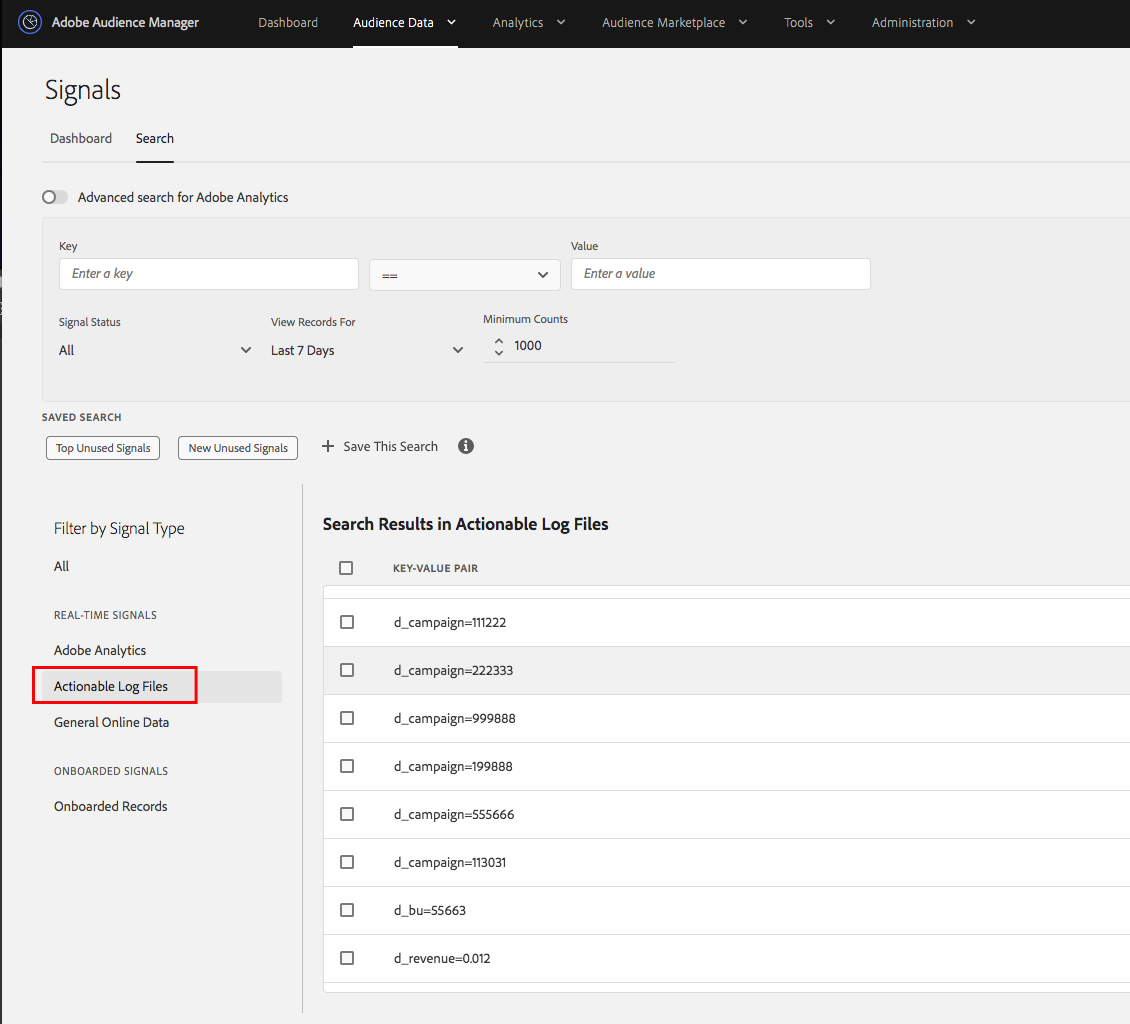
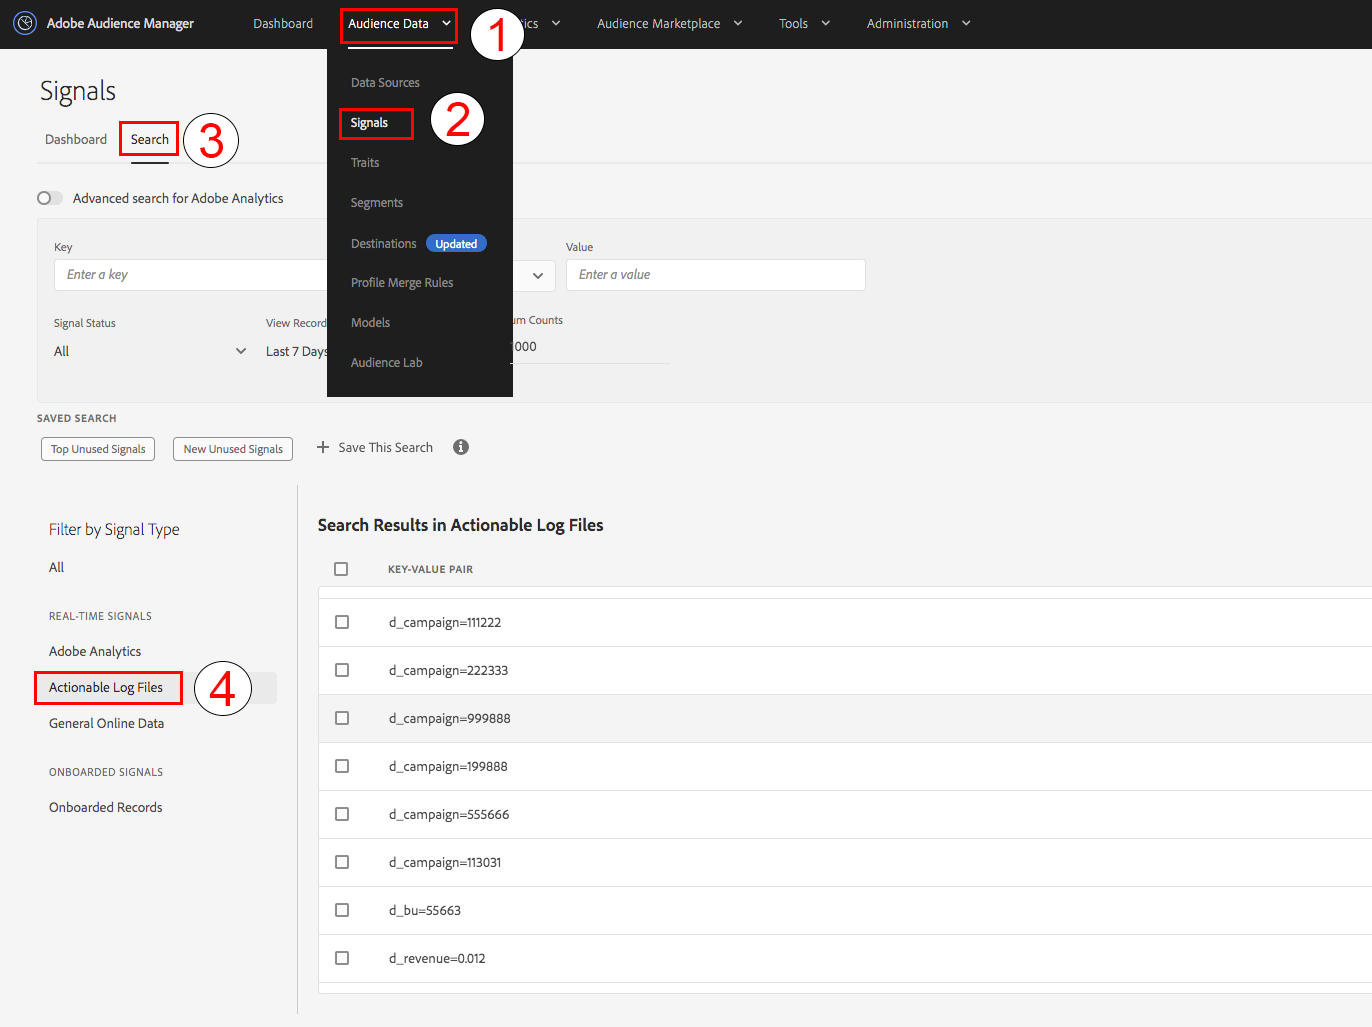
Screenshot updates

diff --git a/help/using/integration/media-data-integration/actionable-log-files.md b/help/using/integration/media-data-integration/actionable-log-files.md
@@ -242,11 +242,13 @@ https://yourcompany.demdex.net?d_src=743&d_uuid=07955261652886032950143702505894
 
 ## Working with Actionable Signals in the Audience Manager UI {#actionable-signals-in-ui}
 
-You can view your incoming actionable signals in the [Signals Search](/help/using/features/data-explorer/data-explorer-signals-search/data-explorer-signals-search.md) interface, by using the **Actionable Log Files** selection.
+You can view your incoming actionable signals in the [Signals Search](/help/using/features/data-explorer/data-explorer-signals-search/data-explorer-signals-search.md) interface. 
+
+Go to **Audience Data** (1) > **Signals** (2) > **Search** (3) and select the **Actionable Log Files** (4) filter.
 
 ![Actionable Signals in UI](/help/using/integration/assets/alf-in-signals.png)
 
-To create rule-based traits using your actionable signals, select **Actionable Log Files**, select the actionable signals that you want to use as trait rules, and press **Create Trait from Selected Signals**.
+To create rule-based traits using your actionable signals, select **Actionable Log Files** (1), select the actionable signals that you want to use as trait rules (2), and press **Create Trait from Selected Signals** (3).
 
 ![Create traits from signals](/help/using/integration/assets/alf-create-trait.png)
 
